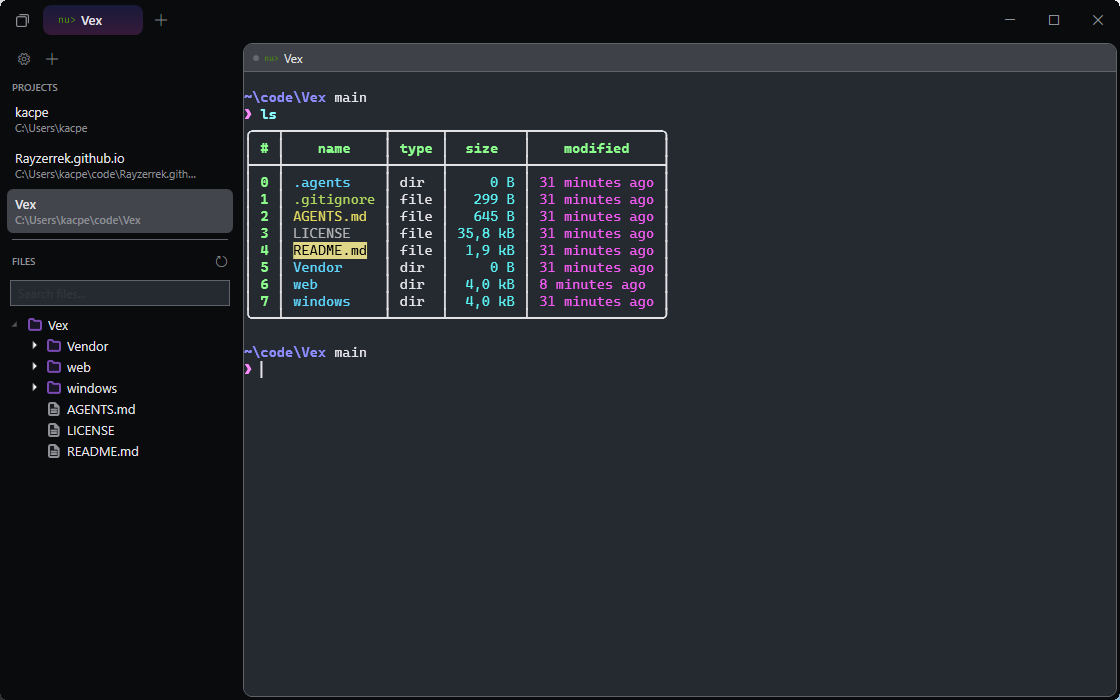
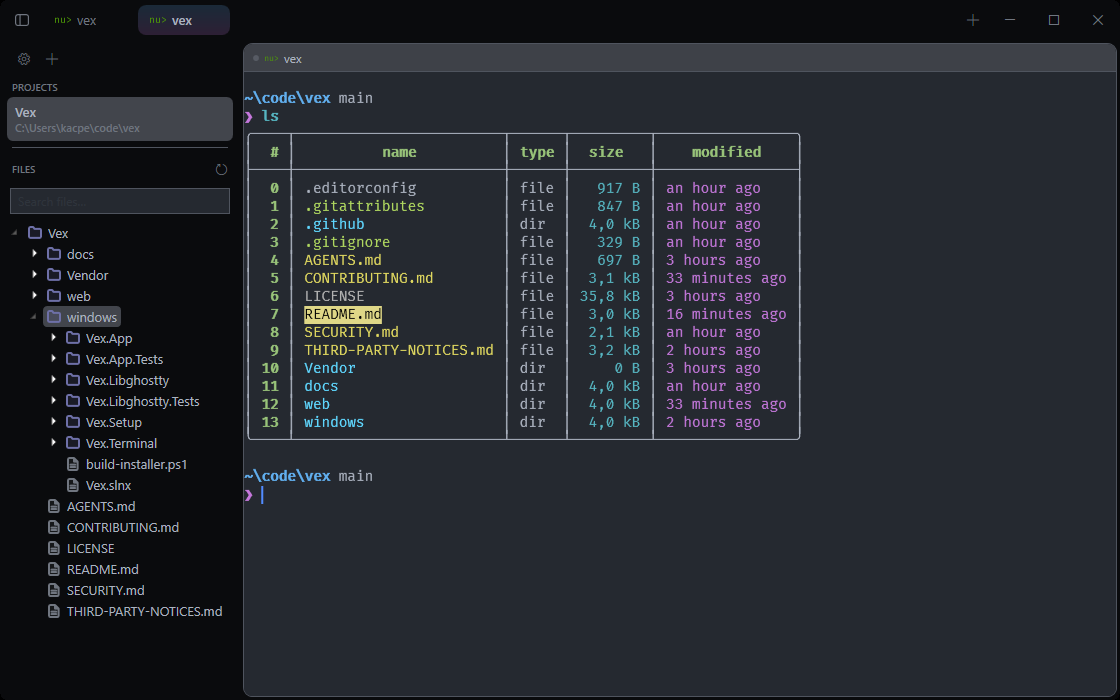
chore: prune scaffolding, stale refs and refresh dark screenshot
- Remove .agents/resume+setup (Linux Orb toolchain scripts, unreferenced)

- Remove global.json (net10.0 TFM and CI pin the SDK already)

- Remove CHANGELOG.md (history lives in GitHub Releases)

- Remove one-shot Assets/generate-icon.ps1 (app.ico already checked in)

- Fix stale ~/oxrules ref in web/README and repo-tools comment in AppIconCatalog

- New vex-dark.png: Vex-only project, windows/ expanded, clean corners

diff --git a/windows/Vex.App/Model/AppIconCatalog.generated.cs b/windows/Vex.App/Model/AppIconCatalog.generated.cs
@@ -1,8 +1,9 @@
 // Auto-generated from the simple-icons catalog (https://simple-icons.org; icons
 // CC0/MIT from simple-icons contributors, brand colors from brand guidelines),
 // plus brand marks for agent CLIs not on simple-icons (pi, antigravity, codex,
-// opencode, deepseek). Regenerate with the icon generator script in the repo
-// tools (see the sibling partial for detection, do not hand-edit glyphs).
+// opencode, deepseek). This is a curated snapshot, not produced by a script in
+// this repo; to refresh glyphs, re-export from simple-icons and paste the new
+// entries here (see the sibling partial for detection, do not hand-edit glyphs).
 using System.Windows.Media;
 
 namespace Vex.App.Model;

diff --git a/README.md b/README.md
@@ -40,7 +40,6 @@ or build from source below.
 - [docs/shortcuts.md](docs/shortcuts.md) — every keyboard and mouse binding.
 - [docs/testing.md](docs/testing.md) — test layers and the renderer self-test harness.
 - [CONTRIBUTING.md](CONTRIBUTING.md) — building, testing, and commit conventions.
-- [CHANGELOG.md](CHANGELOG.md) — release history.
 
 ## Structure
 

diff --git a/web/README.md b/web/README.md
@@ -17,6 +17,3 @@ vp dev
 vp check
 vp build
 ```
-
-Oxlint and Oxfmt configuration lives in `vite.config.ts`. It is based on the
-shared rules in `~/oxrules`.
